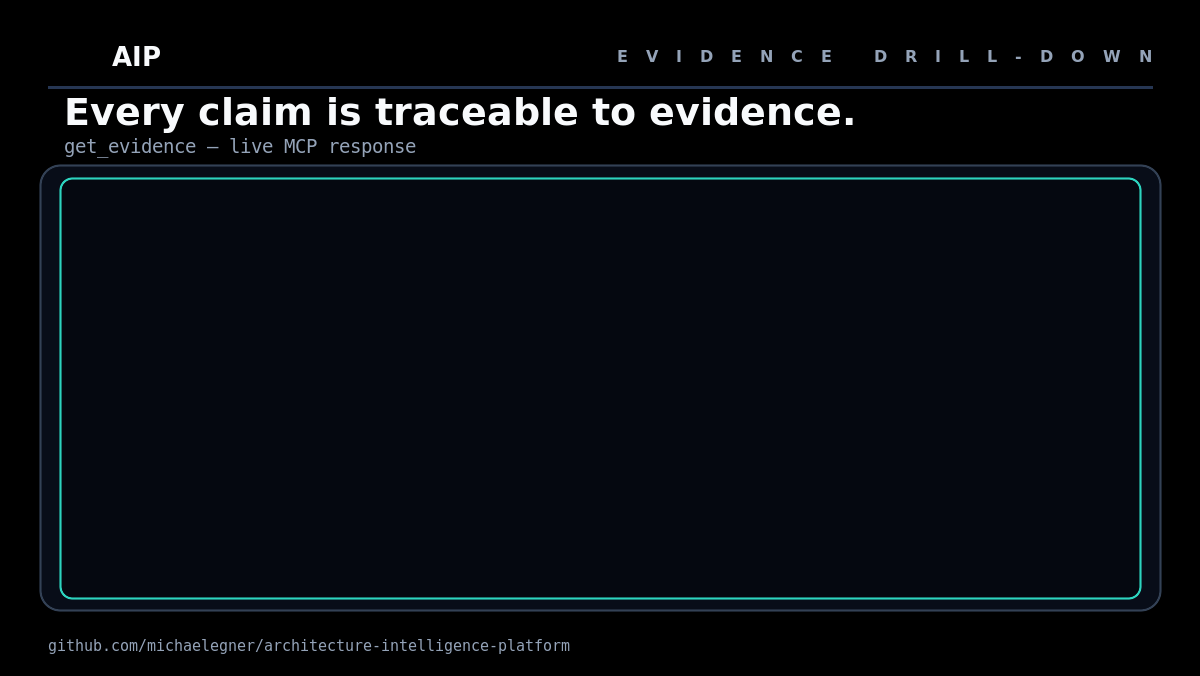
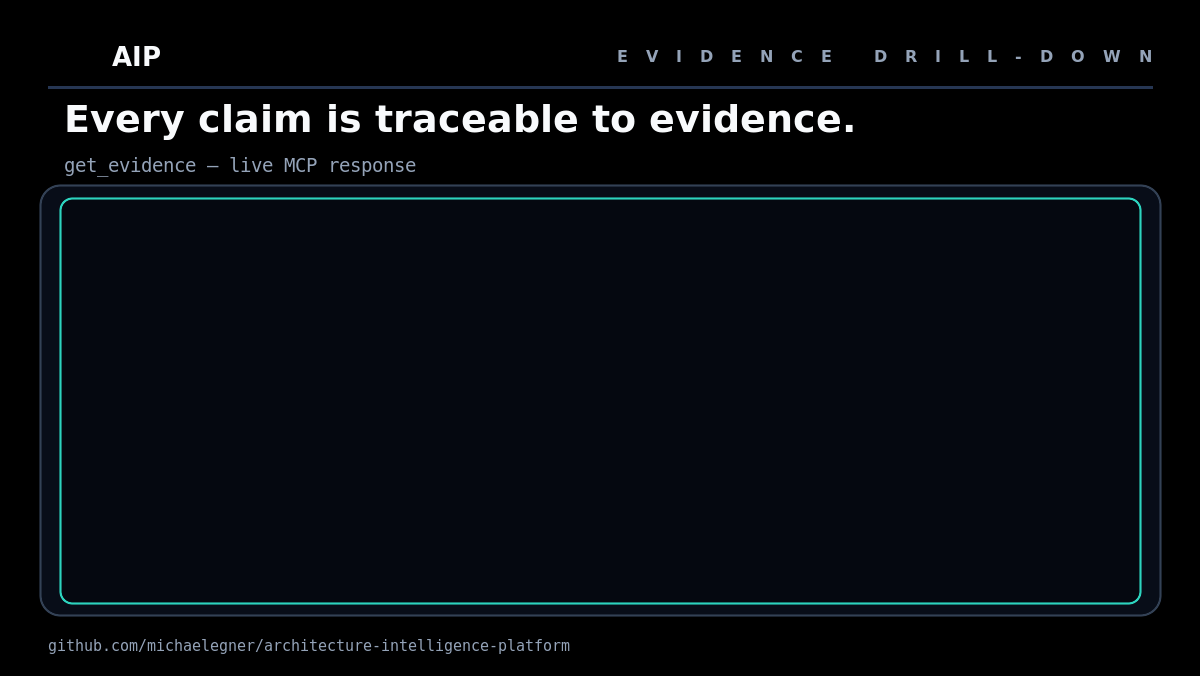
Enlarge OBSERVED_ONLY badge, add headline/subtitle spacing
Follow-up polish: the badge helper's default box was sized exactly to
its own text at the previous size, reading as cramped even after the
earlier width bump. Give badge() a taller default box and larger type
(60px/26px vs 52px/23px), which also evenly enlarges the CTA scene's
"NO LLM KEY REQUIRED" badge. Push the drift/evidence scenes' headline
and subtitle further apart (and shift the capture panel down to match)
so the two-line header reads as two distinct lines instead of sitting
on top of each other.

Claude-Session: https://claude.ai/code/session_01Ha1WiCqTwb7KpLLeeFdcC9

Changed region(s): [[0.0308, 0.1243, 0.9867, 0.3107], [0.0308, 0.8698, 0.9558, 0.932]]

diff --git a/video/readme-demo/render.py b/video/readme-demo/render.py
@@ -26,9 +26,9 @@ RED = "#FB7185"
 # large as the layout allows (and cropped tight in render-video.sh) so the composited
 # terminal text reads at a legible size instead of shrinking to a sliver of the frame.
 PANEL_X = 60
-PANEL_Y = 178
+PANEL_Y = 198
 PANEL_W = 1080
-PANEL_H = 420
+PANEL_H = 405
 
 ROOT = Path(__file__).resolve().parent
 SCENES_DIR = ROOT / "scenes"
@@ -79,11 +79,21 @@ def line(x1: int, y1: int, x2: int, y2: int, *, stroke: str, width: int = 4) -> 
     )
 
 
-def badge(value: str, x: int, y: int, width: int, color: str) -> str:
+def badge(
+    value: str, x: int, y: int, width: int, color: str, *, height: int = 60, size: int = 26
+) -> str:
     return "".join(
         [
-            rect(x, y, width, 52, fill=f"{color}18", stroke=color, radius=26),
-            text(value, x + width // 2, y + 35, 23, fill=color, weight=700, anchor="middle"),
+            rect(x, y, width, height, fill=f"{color}18", stroke=color, radius=height // 2),
+            text(
+                value,
+                x + width // 2,
+                y + height // 2 + int(size * 0.35),
+                size,
+                fill=color,
+                weight=700,
+                anchor="middle",
+            ),
         ]
     )
 
@@ -163,7 +173,7 @@ def scene_mismatch() -> str:
             node(620, 300, 28, "product-service", BLUE),
             node(620, 490, 28, "payment-service", BLUE),
             node(950, 400, 28, "LegacyPricingService", AMBER),
-            badge("OBSERVED_ONLY", 840, 500, 220, AMBER),
+            badge("OBSERVED_ONLY", 810, 495, 280, AMBER),
         ]
     )
     return finish(parts)
@@ -173,9 +183,9 @@ def capture_scene(section: str, title: str, subtitle: str, accent: str) -> str:
     parts = base(section)
     parts.extend(
         [
-            text(title, 64, 125, 38, weight=700),
-            text(subtitle, 64, 153, 19, fill=MUTED, family="DejaVu Sans Mono"),
-            rect(40, 165, 1120, 445, fill="#080D18", stroke="#334155", radius=20),
+            text(title, 64, 132, 38, weight=700),
+            text(subtitle, 64, 172, 19, fill=MUTED, family="DejaVu Sans Mono"),
+            rect(40, 185, 1120, 430, fill="#080D18", stroke="#334155", radius=20),
             rect(PANEL_X, PANEL_Y, PANEL_W, PANEL_H, fill="#050810", stroke=accent, radius=12),
         ]
     )
